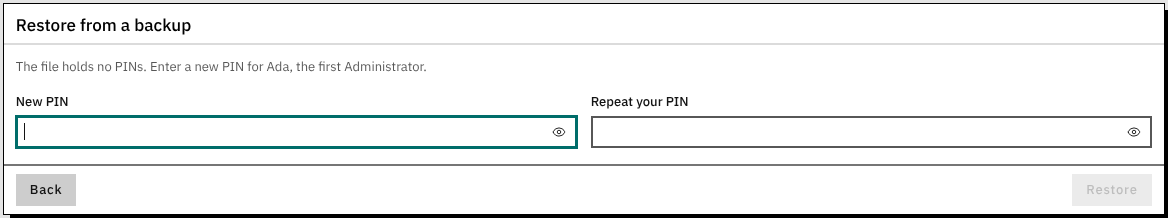
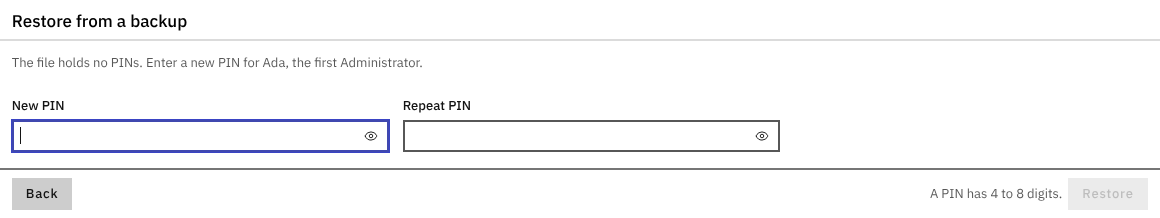
Setup wizard: leave the restore page on redraw, explain the off Restore button, retake A1-21 proof (A1-20, A1-21)
Claude-Session: https://claude.ai/code/session_01EGyR6KeHGwdd8x7hKiH9Vs

Changed region(s): [[0.0, 0.0, 1.0, 1.0], [0.4966, 0.4404, 0.5897, 0.4954]]

diff --git a/web/setuprestore.js b/web/setuprestore.js
@@ -17,6 +17,10 @@ let page = null; // the restore page while it shows: {next(), back(), check()} f
 export const restoring = () => busy;
 // setupwizard.js sends its Back and Next clicks here while the restore page shows.
 export const restorePage = () => page;
+// The wizard draws a step again (Take control, Run setup again): the old restore handlers must not catch Back and Next.
+export const leaveRestore = () => {
+  page = null;
+};
 
 async function restoreKey() {
   const m = await request('setupRestoreKeyResult', { t: 'setupRestoreKey' });
@@ -123,6 +127,7 @@ function askPin(file, text) {
     { label: 'Restore', go, check },
     back,
   );
+  say(problem(), 'hint'); // Restore is off, so the page says why
   pin.focus();
 }
 

diff --git a/web/setupwizard.js b/web/setupwizard.js
@@ -7,7 +7,7 @@ import { statusText } from './statustext.js';
 import { keepSignInToken } from './signin.js';
 import { desktopOnly } from './desktoponly.js';
 import { layout, onLayout } from './layout.js';
-import { restoring, restorePage, wireRestore } from './setuprestore.js';
+import { restoring, restorePage, leaveRestore, wireRestore } from './setuprestore.js';
 import { pinShow } from './pinshow.js';
 import { levelPicks } from './levelbox.js';
 import {
@@ -372,6 +372,7 @@ const KEYS = {
 };
 
 function render(focus) {
+  leaveRestore();
   const step = STEPS[at][0];
   renderSteps();
   const [title, ...body] = VIEW[step]();

diff --git a/internal/app/setuprestore_browser_test.go b/internal/app/setuprestore_browser_test.go
@@ -76,3 +76,49 @@ func TestChromeSetupRestore(t *testing.T) {
 	}
 	signInToken(t, a, "Ada", "97531")
 }
+
+// The wizard draws again while the restore PIN page shows (another browser took control, then this one takes it
+// back). Back and Next must then belong to the wizard, not to the old restore page.
+func TestChromeSetupRestoreLeftByRedraw(t *testing.T) {
+	b := startBrowser(t)
+	_, file := backupOf(t, false)
+	a := setupApp(t)
+	ctx, cancel := context.WithCancel(context.Background())
+	done := make(chan struct{})
+	go func() { a.Run(ctx); close(done) }()
+	t.Cleanup(func() { cancel(); <-done })
+	srv := httptest.NewServer(a.Handler(web.FS))
+	t.Cleanup(func() { srv.CloseClientConnections(); srv.Close() })
+
+	b.open(srv.URL + "/")
+	b.waitFor("Welcome", `document.getElementById('setup-title').textContent === 'Set up Sode'`)
+	b.waitFor("Restore from a backup", `!document.getElementById('setup-restore').hidden && !document.getElementById('setup-restore').disabled`)
+	b.eval(fmt.Sprintf(`(() => {
+		const u8 = Uint8Array.from(atob('%s'), (c) => c.charCodeAt(0));
+		const dt = new DataTransfer();
+		dt.items.add(new File([u8], 'backup.zip', { type: 'application/zip' }));
+		const inp = document.getElementById('setup-restore-file');
+		inp.files = dt.files;
+		inp.dispatchEvent(new Event('change'));
+		return true;
+	})()`, base64.StdEncoding.EncodeToString(file)))
+	b.waitFor("the PIN page", `!!document.getElementById('setup-restore-pin')`)
+	b.waitFor("a muted reason while Restore is off", `document.getElementById('setup-next').disabled
+		&& document.getElementById('setup-err').textContent !== '' && document.getElementById('setup-err').classList.contains('is-hint')`)
+
+	other := dialPeer(t, a)
+	if r := other.ask("setupClaim", 1, map[string]any{"take": true}); r["ok"] != true {
+		t.Fatalf("the other browser's claim: %v", r)
+	}
+	b.waitFor("Take control", `!!document.getElementById('setup-take')?.offsetParent`)
+	b.eval(`document.getElementById('setup-take').click(); true`)
+	b.waitFor("the wizard on Welcome", `!!document.getElementById('setup-dialog').offsetParent && document.getElementById('setup-title').textContent === 'Set up Sode' && !document.getElementById('setup-restore-pin')`)
+	for id, text := range map[string]string{"setup-name": "Ada", "setup-pin": "2468", "setup-pin2": "2468"} {
+		b.eval(`(() => { const i = document.getElementById('` + id + `'); i.focus(); i.value = '` + text + `'; i.dispatchEvent(new Event('input', {bubbles: true})); return true; })()`)
+	}
+	b.waitFor("Next is on", `!document.getElementById('setup-next').disabled`)
+	b.eval(`document.getElementById('setup-next').click(); true`)
+	b.waitFor("Next goes to the Router step", `!document.getElementById('setup-back').hidden && !document.getElementById('setup-restore-pin')`)
+	b.eval(`document.getElementById('setup-back').click(); true`)
+	b.waitFor("Back goes to Welcome", `document.getElementById('setup-title').textContent === 'Set up Sode'`)
+}
